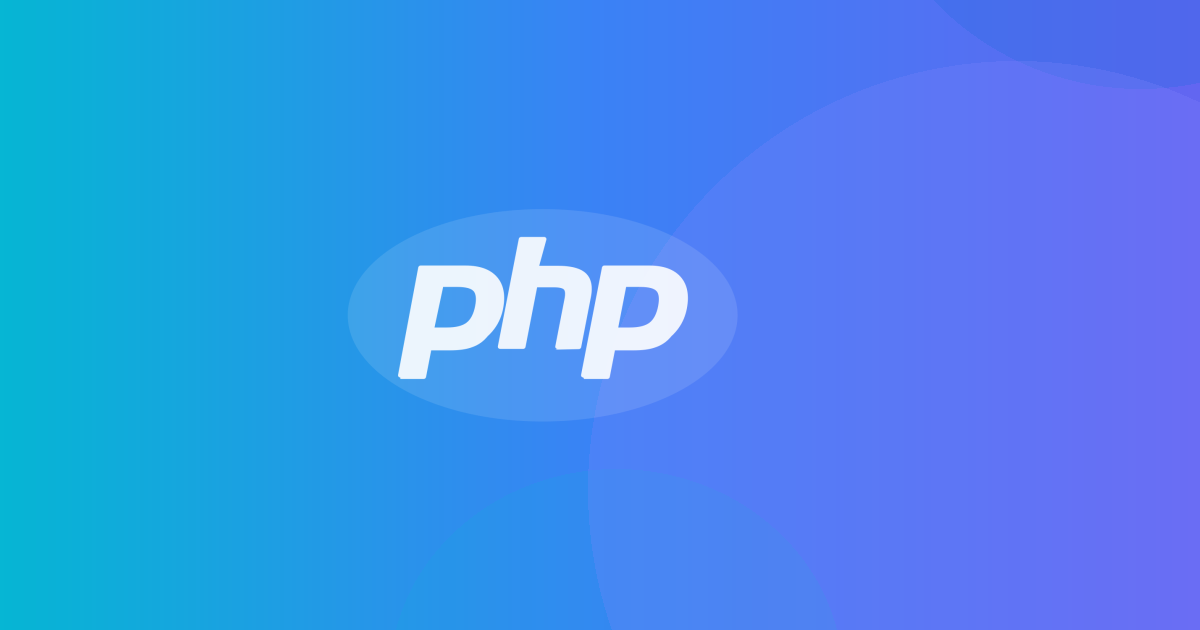
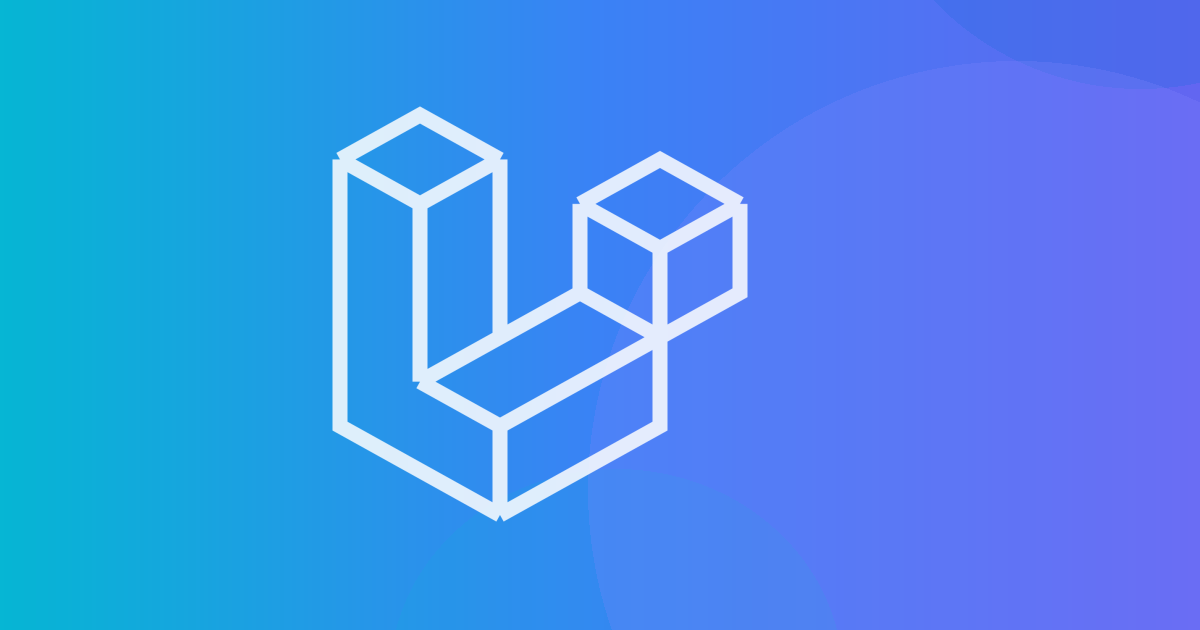
..

Changed region(s): [[0.2775, 0.1508, 0.6475, 0.8444]]

diff --git a/source/_layouts/blog/partial/post.blade.php b/source/_layouts/blog/partial/post.blade.php
@@ -1,24 +1,26 @@
 {{-- Hero Section with Cover Image --}}
-<div class="relative w-full bg-gradient-to-br from-gray-50 to-gray-100 dark:from-gray-900 dark:to-gray-950 overflow-hidden mb-12">
-    {{-- Cover Image --}}
-    <div class="relative max-w-7xl mx-auto px-4">
-        <div class="relative aspect-[21/9] rounded-3xl overflow-hidden shadow-2xl my-8">
+<div class="relative w-full mb-12 -mt-8">
+    {{-- Cover Image - Full width, no container --}}
+    <div class="relative w-full">
+        <div class="relative aspect-[40/21] overflow-hidden">
             <img src="{{ $page->getCoverImage() }}"
                  alt="{{ $page->title }}"
-                 class="w-full h-full object-cover"
+                 class="w-full h-full object-cover object-center"
                  loading="eager">
-            <div class="absolute inset-0 bg-gradient-to-t from-black/60 via-black/20 to-transparent"></div>
 
-            {{-- Floating Meta Badge --}}
-            <div class="absolute top-6 left-6">
-                <div class="inline-flex items-center gap-2 px-4 py-2 rounded-xl bg-white/95 dark:bg-gray-900/95 backdrop-blur-sm shadow-lg border border-white/20 dark:border-gray-700/50">
-                    <svg class="w-4 h-4 text-primary-600 dark:text-primary-400" fill="currentColor" viewBox="0 0 20 20">
-                        <path fill-rule="evenodd" d="M6 2a1 1 0 00-1 1v1H4a2 2 0 00-2 2v10a2 2 0 002 2h12a2 2 0 002-2V6a2 2 0 00-2-2h-1V3a1 1 0 10-2 0v1H7V3a1 1 0 00-1-1zm0 5a1 1 0 000 2h8a1 1 0 100-2H6z" clip-rule="evenodd"></path>
-                    </svg>
-                    <time datetime="{{ $page->getDate()->toIso8601String() }}" class="text-sm font-semibold text-gray-900 dark:text-white">
-                        {{ $page->getDate()->format('F j, Y') }}
-                    </time>
-                </div>
+            {{-- Subtle vignette effect --}}
+            <div class="absolute inset-0 bg-gradient-to-t from-white/10 via-transparent to-transparent dark:from-black/10"></div>
+        </div>
+
+        {{-- Floating Date Badge - Bottom Right --}}
+        <div class="absolute bottom-6 right-6">
+            <div class="inline-flex items-center gap-2.5 px-5 py-3 rounded-2xl bg-white/90 dark:bg-gray-900/90 backdrop-blur-md shadow-2xl border border-gray-200/50 dark:border-gray-700/50">
+                <svg class="w-5 h-5 text-primary-600 dark:text-primary-400" fill="currentColor" viewBox="0 0 20 20">
+                    <path fill-rule="evenodd" d="M6 2a1 1 0 00-1 1v1H4a2 2 0 00-2 2v10a2 2 0 002 2h12a2 2 0 002-2V6a2 2 0 00-2-2h-1V3a1 1 0 10-2 0v1H7V3a1 1 0 00-1-1zm0 5a1 1 0 000 2h8a1 1 0 100-2H6z" clip-rule="evenodd"></path>
+                </svg>
+                <time datetime="{{ $page->getDate()->toIso8601String() }}" class="text-sm font-bold text-gray-900 dark:text-white">
+                    {{ $page->getDate()->format('F j, Y') }}
+                </time>
             </div>
         </div>
     </div>

diff --git a/source/_layouts/blog/layout.blade.php b/source/_layouts/blog/layout.blade.php
@@ -14,7 +14,7 @@
 
         {{-- Sidebar --}}
         <aside class="w-full lg:w-1/4">
-            <div class="lg:sticky lg:top-32 space-y-6">
+            <div class="lg:sticky lg:top-4 space-y-6">
                 {{-- About Widget - Enhanced Design --}}
                 <div class="relative bg-gradient-to-br from-white via-white to-primary-50/30 dark:from-gray-900 dark:via-gray-900 dark:to-primary-900/20 rounded-3xl p-6 shadow-xl border border-gray-200 dark:border-gray-800 backdrop-blur-xl animate-on-scroll overflow-hidden">
                     {{-- Decorative Background Elements --}}

diff --git a/helpers/ModernCoverGenerator.php b/helpers/ModernCoverGenerator.php
@@ -261,9 +261,9 @@ class ModernCoverGenerator
     private function addTechLogo($img, array $tags, int $seed): void
     {
         try {
-            // Find first matching tag that has a logo
+            // Find last matching tag that has a logo (most specific)
             $logoTag = null;
-            foreach ($tags as $tag) {
+            foreach (array_reverse($tags) as $tag) {
                 $tagLower = strtolower($tag);
                 if (isset(self::SVG_LOGOS[$tagLower])) {
                     $logoTag = $tagLower;

diff --git a/source/_layouts/blog/view.blade.php b/source/_layouts/blog/view.blade.php
@@ -22,7 +22,7 @@
 @section('title'){{ $page->title ?? '--' }} — @parent @endsection
 
 @section('blog_main')
-<article class="bg-white dark:bg-gray-900 rounded-2xl shadow-lg border border-gray-200 dark:border-gray-800 overflow-hidden animate-on-scroll">
+<article class="bg-white dark:bg-gray-900 rounded-2xl shadow-lg border border-gray-200 dark:border-gray-800 overflow-hidden">
     @include('_layouts.blog.partial.post')
 </article>
 @stop
